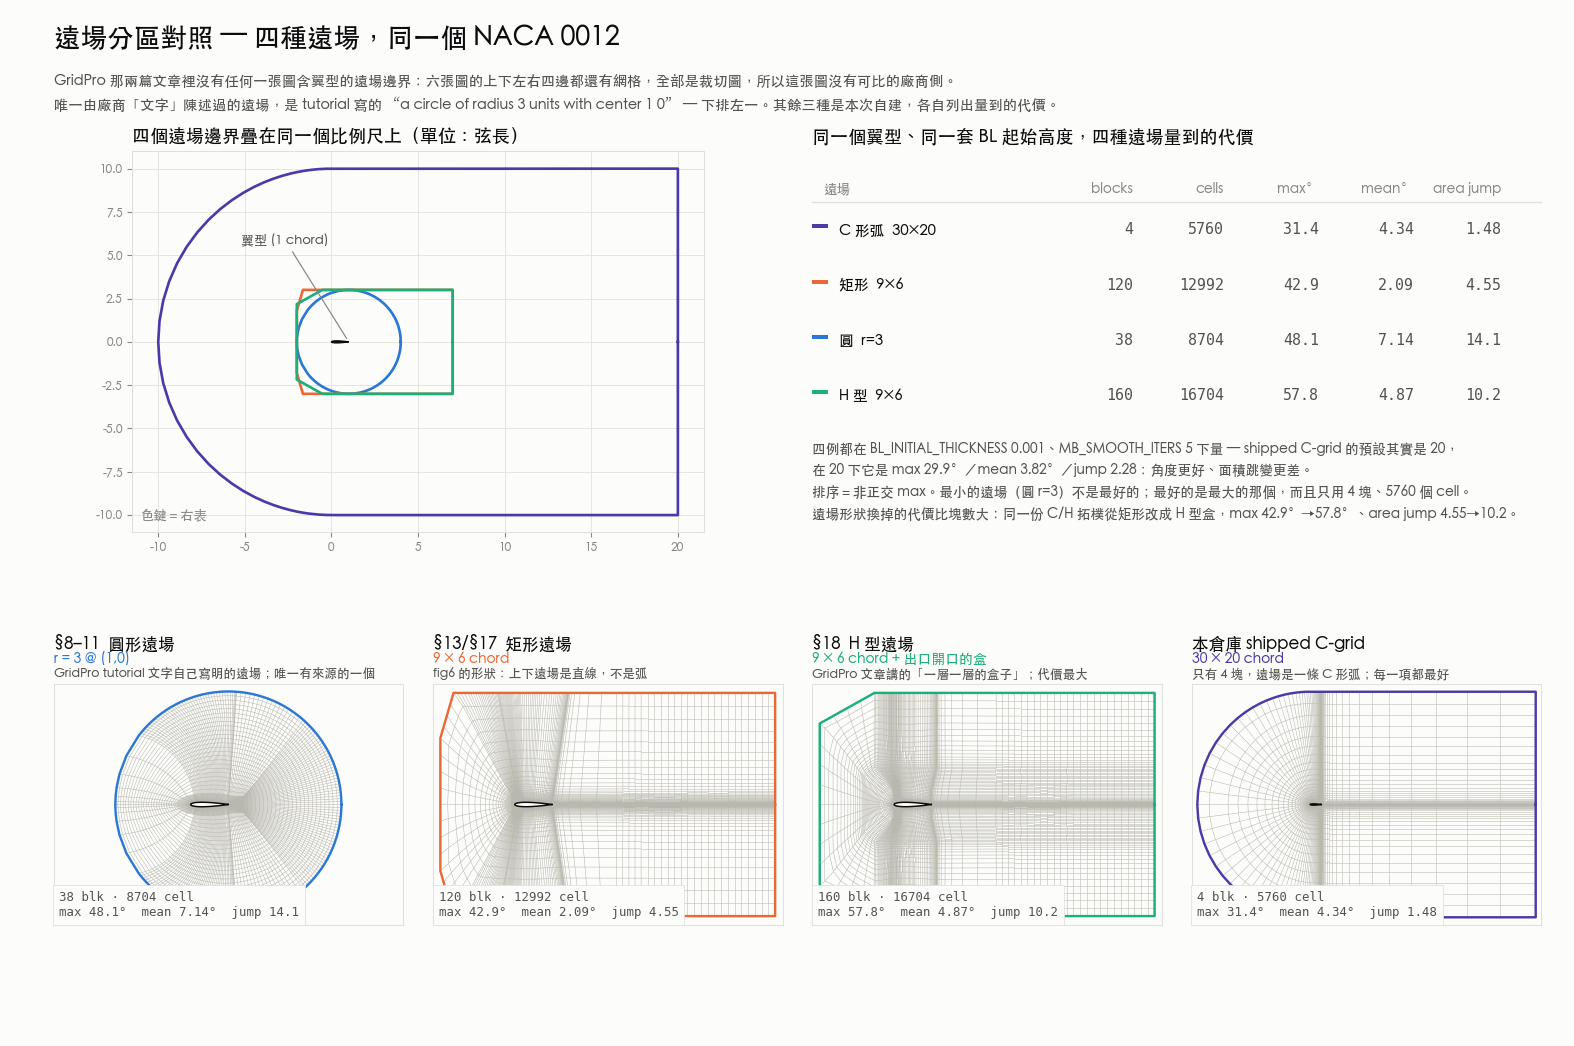
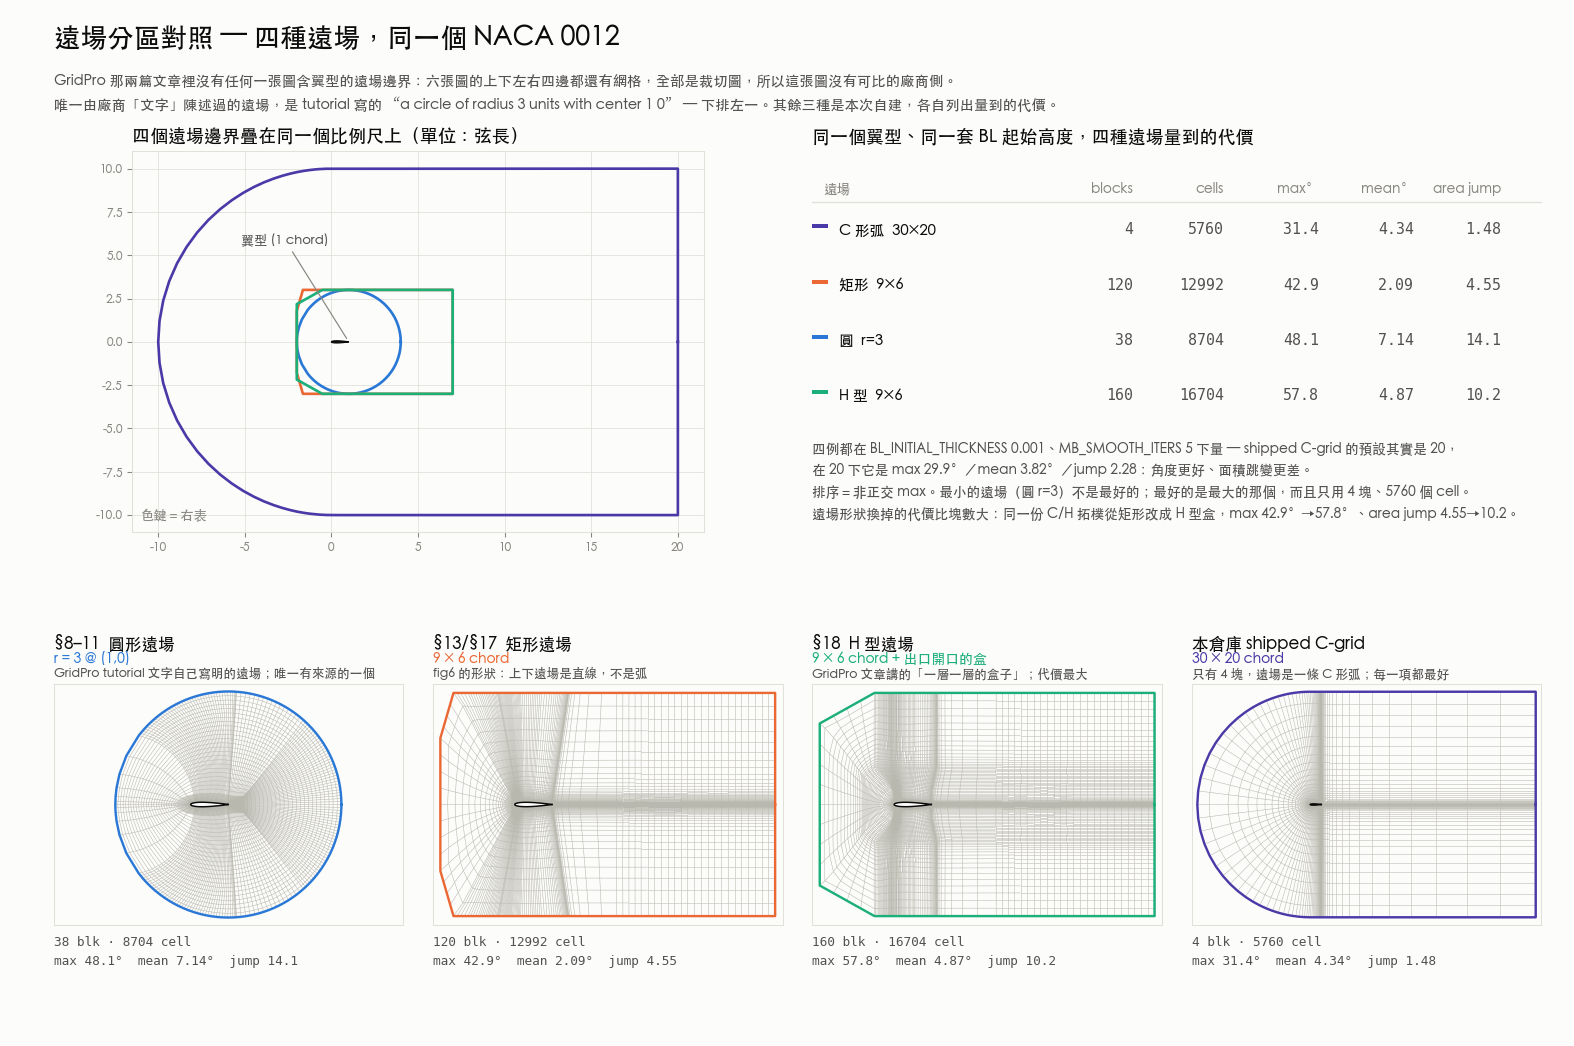
docs: the stats box was covering the far-field corner it was captioning
In the first version each panel's metrics sat in a white box pinned to the
lower-left of the mesh, which hid exactly what the figure is about: the
lower-left corner of the outer boundary. With them moved below the axes,
the rectangle reads as an OCTAGON (all four corners chamfered) and the H
box as a rectangle chamfered on the LEFT two only -- a difference the two
shapes' overlap in the footprint panel does not show.

diff --git a/docs/research/gridpro-blocking-method/plot_farfield_compare.py b/docs/research/gridpro-blocking-method/plot_farfield_compare.py
@@ -144,9 +144,8 @@ for i, (pts, segs, ls, rest) in enumerate(data):
     a.text(0.0, 1.135, lab, transform=a.transAxes, color=INK, fontsize=12.5, va="bottom")
     a.text(0.0, 1.075, ext, transform=a.transAxes, color=col, fontsize=10.4, va="bottom")
     a.text(0.0, 1.016, sub, transform=a.transAxes, color=SEC, fontsize=9.5, va="bottom")
-    a.text(0.016, 0.025, size + "\n" + met, transform=a.transAxes,
-           color=SEC, fontsize=9.3, va="bottom", family="monospace",
-           bbox=dict(fc="#fcfcfb", ec=GRID, lw=0.6, pad=4.5))
+    a.text(0.0, -0.045, size + "\n" + met, transform=a.transAxes,
+           color=SEC, fontsize=9.6, va="top", family="monospace", linespacing=1.55)
 
 fig.text(0.034, 0.952, "遠場分區對照 — 四種遠場，同一個 NACA 0012", color=INK, fontsize=20, va="bottom")
 fig.text(0.034, 0.916,
